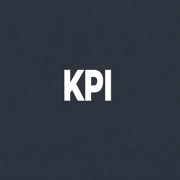
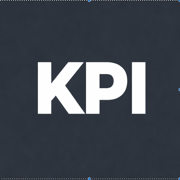
feat: 파비콘 글자 크기 극대화 버전 재적용 및 캐시 방지 처리

diff --git a/index.html b/index.html
@@ -23,10 +23,10 @@
 
     <link rel="stylesheet" href="style.css">
     <!-- Favicon -->
-    <link rel="icon" type="image/svg+xml" href="favicon.svg">
-    <link rel="icon" type="image/x-icon" href="favicon.ico">
-    <link rel="icon" type="image/png" href="favicon.png">
-    <link rel="apple-touch-icon" sizes="180x180" href="apple-touch-icon.png">
+    <link rel="icon" type="image/svg+xml" href="favicon.svg?v=2">
+    <link rel="icon" type="image/x-icon" href="favicon.ico?v=2">
+    <link rel="icon" type="image/png" href="favicon.png?v=2">
+    <link rel="apple-touch-icon" sizes="180x180" href="apple-touch-icon.png?v=2">
     <!-- Font Awesome for Search Icon -->
     <link rel="stylesheet" href="https://cdnjs.cloudflare.com/ajax/libs/font-awesome/6.0.0/css/all.min.css">
 </head>
